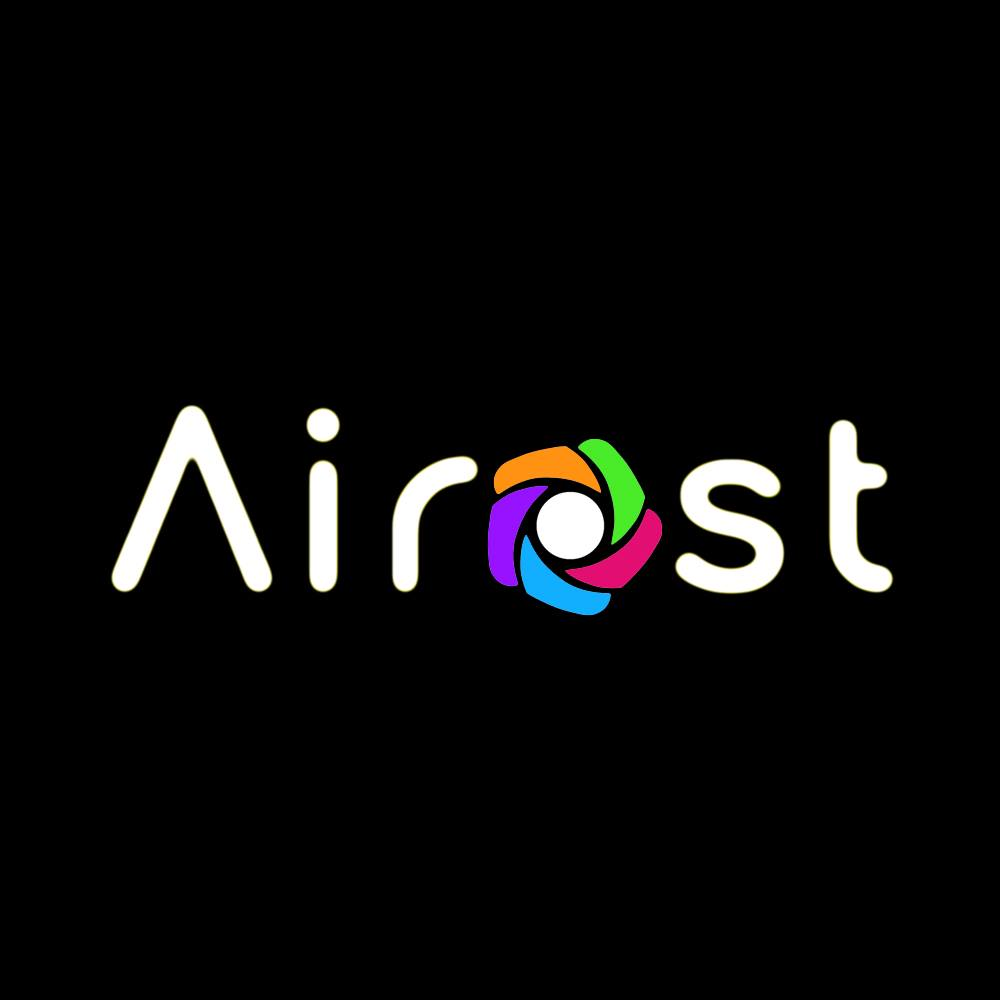
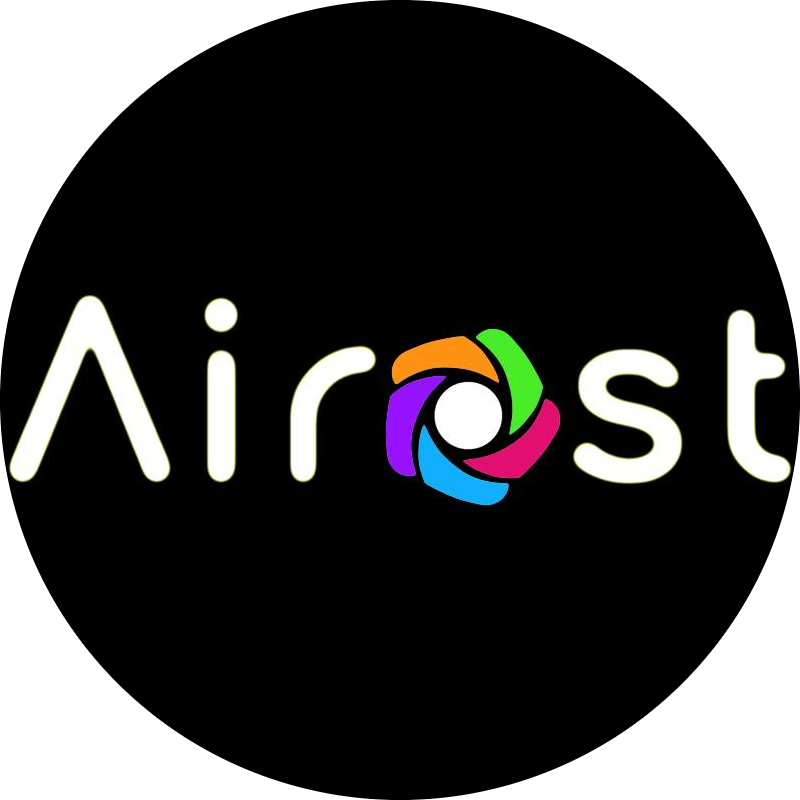
initialized --v2

diff --git a/public/index.html b/public/index.html
@@ -4,37 +4,15 @@
     <meta charset="utf-8" />
     <meta name="viewport" content="width=device-width, initial-scale=1" />
     <meta name="theme-color" content="#000000" />
-    <link rel="icon" href="icon.jpg" type="image/x-icon">
+    <link rel="icon" href="icon.jpg" type="image/x-icon" style="border-radius: 50%;">
     <link rel="preconnect" href="https://fonts.googleapis.com">
     <link rel="preconnect" href="https://fonts.gstatic.com" crossorigin>
     <link href="https://fonts.googleapis.com/css2?family=Poppins:wght@300&display=swap" rel="stylesheet">
-    <!--
-      manifest.json provides metadata used when your web app is installed on a
-      user's mobile device or desktop. See https://developers.google.com/web/fundamentals/web-app-manifest/
-    -->
     <!-- <link rel="manifest" href="%PUBLIC_URL%/manifest.json" /> -->
-    <!--
-      Notice the use of %PUBLIC_URL% in the tags above.
-      It will be replaced with the URL of the `public` folder during the build.
-      Only files inside the `public` folder can be referenced from the HTML.
-
-      Unlike "/favicon.ico" or "favicon.ico", "%PUBLIC_URL%/favicon.ico" will
-      work correctly both with client-side routing and a non-root public URL.
-      Learn how to configure a non-root public URL by running `npm run build`.
-    -->
     <title>Airost Intranet</title>
   </head>
   <body>
     <div id="root"></div>
-    <!--
-      This HTML file is a template.
-      If you open it directly in the browser, you will see an empty page.
-
-      You can add webfonts, meta tags, or analytics to this file.
-      The build step will place the bundled scripts into the <body> tag.
-
-      To begin the development, run `npm start` or `yarn start`.
-      To create a production bundle, use `npm run build` or `yarn build`.
-    -->
+    
   </body>
 </html>

diff --git a/src/components/Sidepanel.css b/src/components/Sidepanel.css
@@ -1,19 +1,19 @@
 .sidebar {
     background-color: #060b26;
-    height: 80px;
+    height: 50px;
     display: flex;
     justify-content: start;
     align-items: center;
   }
   
   .menu-bars {
-    margin-left: 2rem;
-    font-size: 2rem;
+    margin-left: 1.5rem;
+    font-size: 1rem;
     background: none;
   }
   
   .side-menu {
-    background-color: #060b26;
+    background-color: #000000;
     width: 250px;
     height: 100vh;
     display: flex;
@@ -33,25 +33,25 @@
     display: flex;
     justify-content: start;
     align-items: center;
-    padding: 8px 0px 8px 16px;
+    padding: 0px 0px 0px 10px;
     list-style: none;
-    height: 60px;
+    height: 50px;
   }
   
   .side-text a {
     text-decoration: none;
     color: #f5f5f5;
-    font-size: 18px;
+    font-size: 15px;
     width: 95%;
     height: 100%;
     display: flex;
     align-items: center;
     padding: 0 16px;
-    border-radius: 4px;
+    border-radius: 5px;
   }
   
   .side-text a:hover {
-    background-color: #1a83ff;
+    background-color: #a3a3a3;
   }
   
   .side-menu-items {
@@ -61,7 +61,7 @@
   .side-menu-items img{
     display: block;
     margin: auto;
-  
+    width: 150px;
   }
   
   .sidebar-toggle {

diff --git a/src/components/Sidebar.js b/src/components/Sidebar.js
@@ -1,18 +1,18 @@
 import React from 'react';
 import * as faicon from 'react-icons/fa';
 import * as aiicon from 'react-icons/ai';
-
+import * as cgicon from "react-icons/cg";
 export const Sidebar = [
   {
     title: 'Dashboard',
     path: '/',
-    icon: <aiicon.AiFillHome />,
+    icon: <cgicon.CgProfile />,
     cName: 'side-text'
   },
   {
     title: 'Projects',
     path: '/projects',
-    icon: <faicon.FaCartPlus />,
+    icon: <aiicon.AiFillProject />,
     cName: 'side-text'
   }
 ];

diff --git a/src/components/Sidepanel.js b/src/components/Sidepanel.js
@@ -29,7 +29,7 @@ function Sidepanel(){
                 <aiicon.AiOutlineClose />
               </Link>
             </li>
-            <img src="icon.jpg" width="100px"/>
+            <img src="icon.jpg" />
             {Sidebar.map((item, index) => {
               return (
                 <li key={index} className={item.cName}>

diff --git a/README.md b/README.md
@@ -1,70 +1,5 @@
-# Getting Started with Create React App
-
-This project was bootstrapped with [Create React App](https://github.com/facebook/create-react-app).
-
-## Available Scripts
-
-In the project directory, you can run:
-
+### `npm install react-icons --save`
 ### `npm start`
 
 Runs the app in the development mode.\
 Open [http://localhost:3000](http://localhost:3000) to view it in your browser.
-
-The page will reload when you make changes.\
-You may also see any lint errors in the console.
-
-### `npm test`
-
-Launches the test runner in the interactive watch mode.\
-See the section about [running tests](https://facebook.github.io/create-react-app/docs/running-tests) for more information.
-
-### `npm run build`
-
-Builds the app for production to the `build` folder.\
-It correctly bundles React in production mode and optimizes the build for the best performance.
-
-The build is minified and the filenames include the hashes.\
-Your app is ready to be deployed!
-
-See the section about [deployment](https://facebook.github.io/create-react-app/docs/deployment) for more information.
-
-### `npm run eject`
-
-**Note: this is a one-way operation. Once you `eject`, you can't go back!**
-
-If you aren't satisfied with the build tool and configuration choices, you can `eject` at any time. This command will remove the single build dependency from your project.
-
-Instead, it will copy all the configuration files and the transitive dependencies (webpack, Babel, ESLint, etc) right into your project so you have full control over them. All of the commands except `eject` will still work, but they will point to the copied scripts so you can tweak them. At this point you're on your own.
-
-You don't have to ever use `eject`. The curated feature set is suitable for small and middle deployments, and you shouldn't feel obligated to use this feature. However we understand that this tool wouldn't be useful if you couldn't customize it when you are ready for it.
-
-## Learn More
-
-You can learn more in the [Create React App documentation](https://facebook.github.io/create-react-app/docs/getting-started).
-
-To learn React, check out the [React documentation](https://reactjs.org/).
-
-### Code Splitting
-
-This section has moved here: [https://facebook.github.io/create-react-app/docs/code-splitting](https://facebook.github.io/create-react-app/docs/code-splitting)
-
-### Analyzing the Bundle Size
-
-This section has moved here: [https://facebook.github.io/create-react-app/docs/analyzing-the-bundle-size](https://facebook.github.io/create-react-app/docs/analyzing-the-bundle-size)
-
-### Making a Progressive Web App
-
-This section has moved here: [https://facebook.github.io/create-react-app/docs/making-a-progressive-web-app](https://facebook.github.io/create-react-app/docs/making-a-progressive-web-app)
-
-### Advanced Configuration
-
-This section has moved here: [https://facebook.github.io/create-react-app/docs/advanced-configuration](https://facebook.github.io/create-react-app/docs/advanced-configuration)
-
-### Deployment
-
-This section has moved here: [https://facebook.github.io/create-react-app/docs/deployment](https://facebook.github.io/create-react-app/docs/deployment)
-
-### `npm run build` fails to minify
-
-This section has moved here: [https://facebook.github.io/create-react-app/docs/troubleshooting#npm-run-build-fails-to-minify](https://facebook.github.io/create-react-app/docs/troubleshooting#npm-run-build-fails-to-minify)
